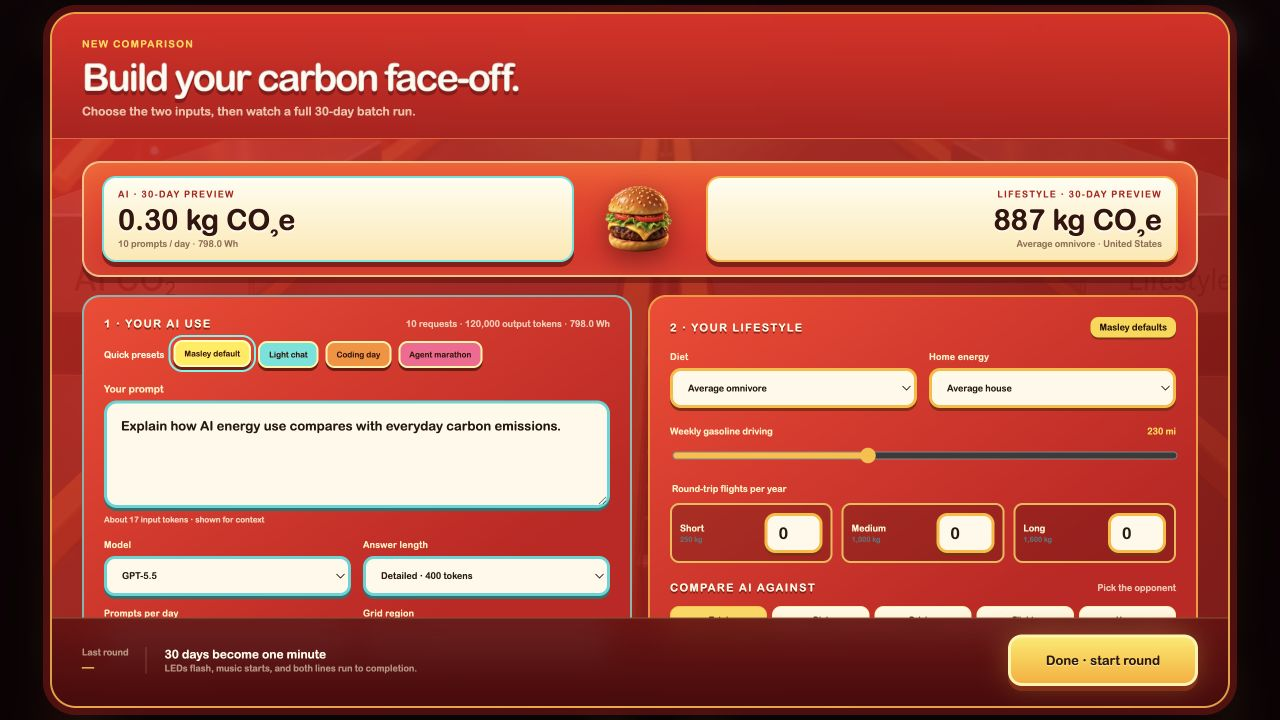
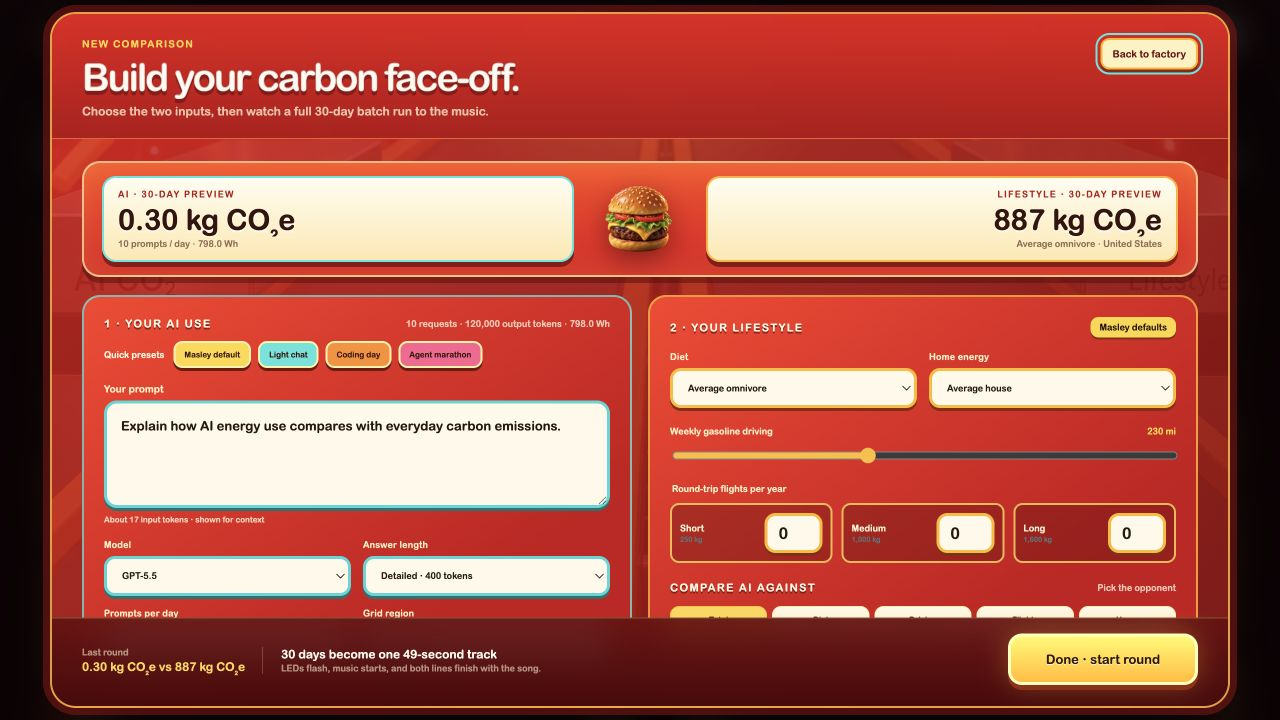
fix: sync round completion to soundtrack

diff --git a/src/main.ts b/src/main.ts
@@ -14,7 +14,12 @@ import {
   DEFAULT_GAME_SETUP,
   estimatePromptInputTokens,
 } from './game/setup';
-import { laneMotionTiming, projectBeltPose, type BeltSide } from './scene/conveyorPhysics';
+import {
+  laneMotionTiming,
+  projectBeltPose,
+  ROUND_PLAYBACK_DURATION_MS,
+  type BeltSide,
+} from './scene/conveyorPhysics';
 import { createStore } from './state/store';
 import type {
   AppState,
@@ -32,8 +37,8 @@ if (!app) throw new Error('Burger Works could not find its app root.');
 
 const ASSET_BASE = '/assets/burger-works';
 const BURGER_KG_CO2E = 3;
-const PRODUCTION_WINDOW_DURATION_MS = 60_000;
 const MAX_BURGERS_ON_LANE = 10;
+const MAX_VISIBLE_BURGERS_PER_LANE = 3_000;
 const SETUP_RETURN_DELAY_MS = 1_800;
 
 const initialProfile: LifestyleProfile = {
@@ -107,7 +112,7 @@ app.innerHTML = `
 
       <section class="output-strip" aria-label="Production totals and visual explanation">
         <article class="output-card output-card--left"><span>Window output</span><strong id="left-unit-count">—</strong><small id="left-unit-name">burger equivalent</small></article>
-        <div class="output-story"><strong id="stage-status" aria-live="polite">Production batch ready</strong><p id="motion-note">One comparison window enters from the back over one minute, then the run stops after the final burgers clear the foreground.</p></div>
+        <div class="output-story"><strong id="stage-status" aria-live="polite">Production batch ready</strong><p id="motion-note">One comparison window enters from the back and clears with the 48.8-second soundtrack.</p></div>
         <article class="output-card output-card--right"><span>Window output</span><strong id="right-unit-count">—</strong><small id="right-unit-name">burger equivalent</small></article>
       </section>
 
@@ -133,7 +138,7 @@ app.innerHTML = `
         <div>
           <p>New comparison</p>
           <h2>Build your carbon face-off.</h2>
-          <span>Choose the two inputs, then watch a full 30-day batch run.</span>
+          <span>Choose the two inputs, then watch a full 30-day batch run to the music.</span>
         </div>
         <button class="dialog-close" id="data-close" type="button">Back to factory</button>
       </div>
@@ -208,7 +213,7 @@ app.innerHTML = `
 
       <footer class="game-dialog__footer">
         <div class="last-round" id="last-round" hidden><span>Last round</span><strong id="last-round-summary">—</strong></div>
-        <div class="round-promise"><strong>30 days become one minute</strong><span>LEDs flash, music starts, and both lines run to completion.</span></div>
+        <div class="round-promise"><strong>30 days become one 49-second track</strong><span>LEDs flash, music starts, and both lines finish with the song.</span></div>
         <button class="primary-button game-start-button" type="submit">Done · start round</button>
       </footer>
       <p class="error-message game-error" id="error-message" role="alert" hidden></p>
@@ -226,7 +231,7 @@ app.innerHTML = `
       <div><dt>AI carbon</dt><dd>Estimated Wh × selected grid carbon intensity. Input tokens are displayed but not modeled by the source data.</dd></div>
       <div><dt>Lifestyle</dt><dd>Diet, gasoline driving, flights, and home energy are normalized to the same comparison window.</dd></div>
       <div><dt>Burger unit</dt><dd>1 burger ≈ ${BURGER_KG_CO2E} kg CO₂e. This is a communication equivalence, not a claim that every burger is identical.</dd></div>
-      <div><dt>Visual scale</dt><dd>One comparison window enters from the back over one minute. Exact output fills perspective-aware rows—up to three burgers across on desktop—before belt speed rises. A slow marker carries sub-one-burger output; the LED counters accumulate to the authoritative totals. The run ends after the final burgers clear the foreground.</dd></div>
+      <div><dt>Visual scale</dt><dd>One comparison window enters and clears during the 48.8-second soundtrack. Exact output fills perspective-aware rows—up to three burgers across on desktop—before belt speed rises. A slow marker carries sub-one-burger output; the LED counters accumulate to the authoritative totals.</dd></div>
       <div><dt>Excluded</dt><dd>Water, training, image generation, retries, and regional goods/services baselines.</dd></div>
     </dl>
     <a class="source-link" href="${MASLEY_SOURCE.url}" target="_blank" rel="noreferrer">Open Masley factor source</a>
@@ -535,9 +540,9 @@ function renderComparison(state: AppState): void {
     const markerNote = leftTiming.continuousMarker || rightTiming.continuousMarker
       ? ' A single slow marker carries the fractional output.'
       : '';
-    byId('motion-note').textContent = `${state.result.comparisonDays} days enter over 1 minute. The ${formatRatio(ratio)} gap uses ${busyTiming.columnCount}-wide rows; the LEDs count upward, then the run stops after the final row clears.${markerNote}`;
+    byId('motion-note').textContent = `${state.result.comparisonDays} days clear in one 49-second track. The ${formatRatio(ratio)} gap uses ${busyTiming.columnCount}-wide rows; the LEDs count upward, then the final row exits with the music.${markerNote}`;
   } else {
-    byId('motion-note').textContent = `${state.result.comparisonDays} days enter over 1 minute. The LEDs count upward, then the run stops after the last burgers clear.`;
+    byId('motion-note').textContent = `${state.result.comparisonDays} days clear in one 49-second track. The LEDs count upward until the last burgers exit.`;
   }
   byId('window-label').textContent = `${state.result.comparisonDays}-day carbon comparison`;
   byId('replay-window').textContent = `${state.result.comparisonDays}-day production · single batch`;
@@ -728,7 +733,7 @@ function renderConveyor(now: number, keepRunning = true): void {
   conveyorBurgers = active;
 
   const runProgress = clamp(
-    (now - replayStartedAt) / PRODUCTION_WINDOW_DURATION_MS,
+    (now - replayStartedAt) / ROUND_PLAYBACK_DURATION_MS,
     0,
     1,
   );
@@ -771,19 +776,21 @@ function beginBatch(): void {
 
   const schedule = (side: 'left' | 'right', data: SideData) => {
     const laneCapacity = laneCapacityForStage();
+    const burgerOutput = data.kgCo2e / BURGER_KG_CO2E;
+    const visibleBurgerCount = burgerOutput < 1
+      ? 1
+      : Math.min(MAX_VISIBLE_BURGERS_PER_LANE, Math.max(1, Math.ceil(burgerOutput)));
     const timing = laneMotionTiming(
-      data.kgCo2e / BURGER_KG_CO2E,
+      burgerOutput < 1 ? burgerOutput : visibleBurgerCount,
       laneCapacity,
       maxColumnsForStage(),
     );
     if (!timing) return;
     const duration = timing.travelDurationMs;
     const interval = timing.continuousMarker
-      ? PRODUCTION_WINDOW_DURATION_MS
+      ? ROUND_PLAYBACK_DURATION_MS
       : timing.intervalMs * timing.columnCount;
     const totalCapacity = timing.continuousMarker ? 1 : timing.totalCapacity;
-    const burgerOutput = data.kgCo2e / BURGER_KG_CO2E;
-    const visibleBurgerCount = timing.continuousMarker ? 1 : Math.max(1, Math.ceil(burgerOutput));
     conveyorLanes.push({
       side,
       accent: data.className,

diff --git a/src/scene/conveyorPhysics.test.ts b/src/scene/conveyorPhysics.test.ts
@@ -4,7 +4,14 @@ import {
   laneMotionTiming,
   projectBeltPose,
   projectWorldProgress,
+  ROUND_PLAYBACK_DURATION_MS,
 } from './conveyorPhysics';
+
+function scheduledCompletionMs(burgers: number, rowCapacity: number, maxColumns = 3): number {
+  const timing = laneMotionTiming(burgers, rowCapacity, maxColumns)!;
+  const rowCount = Math.ceil(Math.max(1, Math.ceil(burgers)) / timing.columnCount);
+  return (rowCount - 1) * timing.intervalMs * timing.columnCount + timing.travelDurationMs;
+}
 
 describe('conveyor physics', () => {
   it('projects the world-space endpoints exactly', () => {
@@ -123,19 +130,21 @@ describe('conveyor physics', () => {
     }
   });
 
-  it('fills density before increasing belt velocity for extreme rate gaps', () => {
+  it('fills density and fits extreme rate gaps to the soundtrack', () => {
     const ai = laneMotionTiming(1.24 / 3, 10, 3)!;
     const lifestyle = laneMotionTiming(887 / 3, 10, 3)!;
 
-    expect(ai.intervalMs / lifestyle.intervalMs).toBeGreaterThan(700);
+    expect(ai.intervalMs / lifestyle.intervalMs).toBeGreaterThan(300);
     expect(ai.columnCount).toBe(1);
     expect(ai.continuousMarker).toBe(true);
-    expect(ai.travelDurationMs).toBe(60_000);
+    expect(ai.travelDurationMs).toBe(ROUND_PLAYBACK_DURATION_MS);
     expect(lifestyle.columnCount).toBe(3);
     expect(lifestyle.totalCapacity).toBe(30);
-    expect(lifestyle.travelDurationMs).toBeGreaterThanOrEqual(5_900);
-    expect(lifestyle.travelDurationMs).toBeLessThanOrEqual(6_000);
+    expect(lifestyle.travelDurationMs).toBeGreaterThan(4_400);
+    expect(lifestyle.travelDurationMs).toBeLessThan(4_500);
     expect(ai.travelDurationMs / lifestyle.travelDurationMs).toBeGreaterThan(10);
+    expect(scheduledCompletionMs(1.24 / 3, 10, 3)).toBeCloseTo(ROUND_PLAYBACK_DURATION_MS, 5);
+    expect(scheduledCompletionMs(887 / 3, 10, 3)).toBeCloseTo(ROUND_PLAYBACK_DURATION_MS, 5);
   });
 
   it('uses the full belt surface progressively from one to three columns', () => {
@@ -147,7 +156,7 @@ describe('conveyor physics', () => {
     expect(columnsForBeltLoad(300, 10, 3)).toBe(3);
   });
 
-  it('holds base speed through physical capacity, then scales to 300 per month', () => {
+  it('uses more density before shortening travel and always ends with the song', () => {
     const one = laneMotionTiming(1, 10, 3)!;
     const eight = laneMotionTiming(8, 10, 3)!;
     const twentyOne = laneMotionTiming(21, 10, 3)!;
@@ -155,29 +164,37 @@ describe('conveyor physics', () => {
     const threeHundred = laneMotionTiming(300, 10, 3)!;
 
     expect(one.columnCount).toBe(1);
-    expect(one.travelDurationMs).toBe(60_000);
+    expect(one.travelDurationMs).toBe(ROUND_PLAYBACK_DURATION_MS);
     expect(eight.columnCount).toBe(2);
-    expect(eight.travelDurationMs).toBe(60_000);
+    expect(eight.travelDurationMs).toBeGreaterThan(27_000);
     expect(twentyOne.columnCount).toBe(3);
-    expect(twentyOne.travelDurationMs).toBe(60_000);
-    expect(thirty.travelDurationMs).toBeGreaterThanOrEqual(58_000);
-    expect(threeHundred.travelDurationMs).toBeGreaterThanOrEqual(5_800);
-    expect(threeHundred.travelDurationMs).toBeLessThanOrEqual(5_900);
-    expect(threeHundred.visualRatePerSecond).toBe(5);
+    expect(twentyOne.travelDurationMs).toBeGreaterThan(26_000);
+    expect(thirty.travelDurationMs).toBeGreaterThan(25_000);
+    expect(threeHundred.travelDurationMs).toBeGreaterThan(4_300);
+    expect(threeHundred.travelDurationMs).toBeLessThan(4_500);
+    expect(threeHundred.visualRatePerSecond).toBeCloseTo(
+      300 / (ROUND_PLAYBACK_DURATION_MS / 1_000),
+      5,
+    );
+    for (const burgers of [1, 8, 21, 30, 300]) {
+      expect(scheduledCompletionMs(burgers, 10, 3)).toBeCloseTo(ROUND_PLAYBACK_DURATION_MS, 5);
+    }
   });
 
-  it('uses multiple columns at the base speed before accelerating', () => {
+  it('uses multiple columns while retaining a track-length batch', () => {
     const medium = laneMotionTiming(10, 6, 3)!;
     expect(medium.columnCount).toBe(2);
-    expect(medium.travelDurationMs).toBe(60_000);
+    expect(medium.travelDurationMs).toBeGreaterThan(27_000);
+    expect(scheduledCompletionMs(10, 6, 3)).toBeCloseTo(ROUND_PLAYBACK_DURATION_MS, 5);
   });
 
   it('preserves compact headway and the below-threshold state', () => {
     const compact = laneMotionTiming(887 / 3, 3, 2)!;
     expect(compact.columnCount).toBe(2);
     expect(compact.totalCapacity).toBe(6);
-    expect(compact.travelDurationMs).toBeGreaterThanOrEqual(1_100);
-    expect(compact.travelDurationMs).toBeLessThanOrEqual(1_160);
+    expect(compact.travelDurationMs).toBeGreaterThan(900);
+    expect(compact.travelDurationMs).toBeLessThan(930);
+    expect(scheduledCompletionMs(887 / 3, 3, 2)).toBeCloseTo(ROUND_PLAYBACK_DURATION_MS, 5);
     expect(laneMotionTiming(0.004, 3)).toBeNull();
   });
 });

diff --git a/src/scene/conveyorPhysics.ts b/src/scene/conveyorPhysics.ts
@@ -20,8 +20,7 @@ const FAR_RIGHT_X = 55.8;
 const NEAR_RIGHT_X = 83.3;
 const BELT_PLANE_END = 0.8;
 const BELT_PERSPECTIVE = 2;
-const WINDOW_PLAYBACK_DURATION_MS = 60_000;
-const MIN_TRAVEL_DURATION_MS = 450;
+export const ROUND_PLAYBACK_DURATION_MS = 48_814;
 const HEADWAY_MARGIN = 0.2;
 const DEFAULT_SPRITE_WIDTH_PCT = 8.5;
 const FAR_COLUMN_GAP_PCT = 0.4;
@@ -137,10 +136,10 @@ export function columnsForBeltLoad(
 }
 
 /**
- * Maps one comparison window to one playback minute. Every lane begins at the
- * same one-minute traversal: additional output occupies more rows and columns
- * across the finite belt surface. Travel time shortens only after every usable
- * position is full, preserving the exact launch cadence at higher rates.
+ * Fits one complete comparison batch to the 48.8-second Burger Blitz track.
+ * A sparse lane keeps one burger in motion for the whole song. Busier lanes
+ * first occupy more rows and columns; their travel time then shortens just
+ * enough for the final row to clear on the same beat as every other lane.
  */
 export function laneMotionTiming(
   burgersInWindow: number,
@@ -155,14 +154,13 @@ export function laneMotionTiming(
     safeRowCapacity,
     safeMaxColumns,
   );
-  const visualRatePerSecond = burgersInWindow / (WINDOW_PLAYBACK_DURATION_MS / 1_000);
-  const intervalMs = Math.max(16, Math.round(1_000 / visualRatePerSecond));
-  const perColumnIntervalMs = intervalMs * columnCount;
-  const headwayDurationMs = perColumnIntervalMs * Math.max(1, safeRowCapacity - HEADWAY_MARGIN);
-  const travelDurationMs = Math.round(Math.max(
-    MIN_TRAVEL_DURATION_MS,
-    Math.min(WINDOW_PLAYBACK_DURATION_MS, headwayDurationMs),
-  ));
+  const visibleBurgerCount = Math.max(1, Math.ceil(burgersInWindow));
+  const rowCount = Math.ceil(visibleBurgerCount / columnCount);
+  const occupiedRows = Math.min(rowCount, Math.max(1, safeRowCapacity - HEADWAY_MARGIN));
+  const rowIntervalMs = ROUND_PLAYBACK_DURATION_MS / Math.max(1, rowCount - 1 + occupiedRows);
+  const travelDurationMs = ROUND_PLAYBACK_DURATION_MS - rowIntervalMs * Math.max(0, rowCount - 1);
+  const intervalMs = rowIntervalMs / columnCount;
+  const visualRatePerSecond = burgersInWindow / (ROUND_PLAYBACK_DURATION_MS / 1_000);
 
   return {
     columnCount,

diff --git a/design-qa.md b/design-qa.md
@@ -24,12 +24,12 @@
 - Pass — both burger paths follow the straight belt centerlines from the vanishing point to the foreground. Burger scale growth matches the source perspective and the foreground crops naturally at the stage edge.
 - Pass — the intentional product-state difference from the filled source is clear: identical burgers remain sparse on the AI line and dense on the lifestyle line, so throughput rather than decoration becomes the comparison.
 - Pass — every burger advances linearly in lane time, then one fractional-linear planar projection derives its angled screen x, contact y, apparent scale, and depth order. Distant screen motion is slower and the same belt velocity accelerates visibly toward the camera.
-- Pass — one selected comparison window enters over one playback minute. Both belts begin empty; exact output sets launch cadence, each belt fills aligned rows across its width before accelerating, and the run ends only after the last row clears the foreground. In the typical 718× state, the fractional AI marker takes 60 seconds to traverse while the denser three-wide lifestyle rows take about 5.96 seconds.
+- Pass — one selected comparison window fits the 48.8-second Burger Blitz soundtrack. Both belts begin empty; exact output sets launch cadence, each belt fills aligned rows across its width before accelerating, and both final rows clear with the end of the music. In the typical state, the fractional AI marker traverses for 48.8 seconds while the denser three-wide lifestyle rows traverse in about 4.44 seconds.
 - Pass — the calibrated projection now governs the photographed belt and its below-frame continuation without an exit-speed discontinuity. A tracked row increased from about 86 px/s in the distance to 518 px/s at the visible foreground; all samples remained at opacity 1 and continued well below the 535 px stage bottom before removal.
 - Pass — the sparse and packed paths were recalibrated to Burger Belt 2's asymmetric rail geometry. Linear fits through the photographed surface centers run from 48.4% to 21.6% on the left and 55.8% to 83.3% on the right. Only packed three-wide rows receive the separate 0.5% outward rail-clearance nudge at the back.
 - Pass — burger bottoms, rather than sprite centers, are anchored to the plane. The populated desktop line carries ten aligned rows of three; 24 burgers intersected the visible stage with measured row clearances widening from 11.9 px in the distance to 35.8 px in the foreground and zero intersections. Compact rows run two-wide with zero intersections.
 - Pass — same-row spacing is derived from each sprite's rendered width plus a rail-safe gap that opens with the photographed belt. Desktop horizontal gaps grow from about 5 px at the distant row to 11–12 px at the foreground; compact gaps widen proportionally. Packed rows receive a small inward-only rear offset so neither outer burger rides the converging rail. The distant scale remains 0.14 so the first burgers are readable without changing the established foreground size.
-- Pass — live compact CO₂ totals and production pace are centered inside the photographed black machinery displays, outside both motion paths. At the 1203.2 × 515.7 px desktop stage the overlays measure 113.5 × 44.7 px and 112.3 × 44.7 px; at the 366 × 156.9 px compact stage they remain visible at about 34 × 13.5 px. Exact burger-equivalent totals and the one-minute density-first explanation remain below the stage.
+- Pass — live compact CO₂ totals and production pace are centered inside the photographed black machinery displays, outside both motion paths. At the 1203.2 × 515.7 px desktop stage the overlays measure 113.5 × 44.7 px and 112.3 × 44.7 px; at the 366 × 156.9 px compact stage they remain visible at about 34 × 13.5 px. Exact burger-equivalent totals and the soundtrack-length density-first explanation remain below the stage.
 - Pass — the 1280 × 900 page maintains the existing Burger Works hierarchy: exact carbon values first, moving production second, compact controls third.
 
 ## Required fidelity surfaces
@@ -38,7 +38,7 @@
 - Spacing and layout rhythm: passed. The 2128:912 stage ratio matches both sources; labels clear the lanes; the new output strip aligns to the stage and the replay controls remain visually secondary.
 - Colors and visual tokens: passed. The source's warm yellow/red industrial palette remains visible while the existing cyan/amber semantic accents identify AI and lifestyle without recoloring the supplied image.
 - Image quality and asset fidelity: passed. The source background is used at its native composition; the existing transparent burger asset is sharp, halo-free, and perspective-scaled. No placeholder, CSS-drawn, SVG-drawn, or emoji assets are present.
-- Copy and content: passed. The typical state states “30 days = 1 minute,” preserves the exact 718× output cadence, explains that the busier lane fills up to three-wide before belt speed rises, and identifies the persistent slow marker. Numeric totals remain authoritative. Near-zero totals use “Below visual threshold.”
+- Copy and content: passed. The typical state states “30 days become one 49-second track,” preserves the exact output ratio, explains that the busier lane fills up to three-wide before belt speed rises, and identifies the persistent slow marker. Numeric totals remain authoritative. Near-zero totals use “Below visual threshold.”
 - Icons and controls: passed. Existing supplied brand image and established text controls are retained; disabled Energy and Water modes remain clearly marked “soon.”
 - Accessibility: passed for this iteration. Semantic buttons/dialogs/labels remain keyboard reachable, alt text describes the conveyor image, reduced-motion rules remain present, and text contrast remains legible over dark panels.
 
@@ -53,7 +53,7 @@
 - Synthetic scenario change: passed; light and typical states update values and restart the lines.
 - Lifestyle component selection: passed; diet changes the right value and pace, then total restores the full comparison.
 - Profile input change/reset: passed; driving changes the right pace immediately and restart logic uses the new rate.
-- Replay batch: passed; the initial stage waits empty for a user start, both LED panels flash during a 900 ms systems check, burgers enter only from the back, the LED totals rise from zero during the one-minute input window, and the final state holds after the last burgers fall beyond the foreground.
+- Replay batch: passed; the initial stage waits empty for a user start, both LED panels flash during a 900 ms systems check, burgers enter only from the back, the LED totals rise from zero during the 48.8-second run, and the final state holds after the last burgers fall beyond the foreground.
 - Soundtrack: passed structural and media validation. The 48.8-second Burger Blitz MP3 is queued by default and silently primed on the Start batch gesture so browser media policy is satisfied; after the 900 ms LED flash it resets to zero and becomes audible on the same frame as belt motion. Replay batch repeats that sequence, and the track does not loop. The Music control arms or disarms the next round without starting it independently. At 390 px, Music and Replay remain visible without overlap or horizontal overflow.
 - Swap: passed; populated and sparse lane cadence, speed, labels, and values exchange sides while each lane retains its independently fitted projective path.
 - Chrome parity: passed after replacing the fixed 88 px/62 px sprite widths with an 11% stage-relative width. At equal belt depth, burger-to-stage proportions now remain constant across Chrome window sizes while the intentional desktop/compact column breakpoint remains discrete; the larger calibration keeps both browser views legible without returning to fixed pixel sizing.
@@ -64,10 +64,10 @@
 - First normalized pass: no actionable P0/P1/P2 mismatch. The source and implementation were compared together at 1203 × 516 px. The unequal burger density and UI labels are intentional product behavior, not fidelity drift.
 - Motion correction pass — P1 resolved. The supplied 1660 px reference showed rate-dependent belt timing and foreground burger overlap. The implementation now uses one fixed travel duration, a perspective-compensated screen path, a lower sparse-rate floor, and responsive capacity spacing. Two timed post-fix captures at 1660 × 1094 show the burgers progressing without bunching; the 390 × 844 capture confirms the compact cap.
 - Shared-clock physics pass — P1 resolved. Independent Web Animations could not guarantee a single physical belt or frame-rate-independent headway. They were replaced by one requestAnimationFrame simulation with absolute birth times, fixed world speed, projective camera mapping, perceptual velocity compensation, bottom-contact anchoring, responsive lane capacity, and deterministic catch-up. Typical, big/big, compact, and below-threshold browser states all passed with no console warnings or errors.
-- Rate-and-velocity pass — P1 resolved. Density-only compression reduced the typical 718× comparison to roughly four visible positions and flattened perspective velocity. The current model maps the full window to one minute, preserves exact average launch cadence, fills synchronized two- or three-wide rows before accelerating the saturated lane, keeps one slow marker visible, follows the user-marked perspective paths, and retains full opacity through off-screen exit.
+- Rate-and-velocity pass — P1 resolved. Density-only compression reduced the typical comparison to roughly four visible positions and flattened perspective velocity. The current model maps the full window to the soundtrack, fills synchronized two- or three-wide rows before accelerating the saturated lane, keeps one slow marker visible, follows the user-marked perspective paths, retains full opacity through off-screen exit, and solves each lane's final row for the same 48.8-second completion.
 - Perspective-headway pass — P1 resolved. Sprite scale previously used much stronger perspective than forward position, so rear burgers appeared to consume the gap even though their centers never passed. Position, column spread, and the below-frame exit now share one continuous belt-plane projection; sprite growth is gently eased from that same depth coordinate to preserve its visible silhouette headway. Every tracked following-distance sequence increased frame by frame; desktop and compact stress sampling retained zero intersections.
 - Dense-balance pass — P1 resolved. The six-row desktop cap left avoidable foreground space on the high-output line. The cap is now ten synchronized rows of three: exact cadence remains 4.93 burgers per second while belt travel slows to about 5.96 seconds before any further rate increase is represented as velocity.
-- Full-range layout pass — P1 resolved. The timing model now treats the belt as a finite 10 × 3 surface rather than selecting columns only when a single file overflows. One burger per month takes the full minute to traverse; rising output progressively occupies one, two, then three columns while retaining that base speed. Only loads beyond the available 30 positions accelerate, reaching about a 5.9-second traversal at the 300-burger-per-month design ceiling.
+- Full-range layout pass — P1 resolved. The timing model treats the belt as a finite 10 × 3 surface rather than selecting columns only when a single file overflows. One burger per month takes the full soundtrack to traverse; rising output progressively occupies one, two, then three columns and then shortens travel just enough for the final row to clear on time. At 300 burgers per month, the packed lane traverses in about 4.4 seconds while its last row still exits at 48.8 seconds.
 - Size-aware row-fan pass — P1 resolved. Fixed column coordinates allowed sprite growth to consume horizontal gaps near the camera, while the first distant burgers were too small. Column centers now use the measured CSS sprite width at runtime plus a visual gap that expands from 0.5% to 1% of stage width. The distant three-wide footprint narrowed from about 70 px to 56 px and cleared the converging center rail; timed desktop and compact sampling retained widening gaps, one persistent slow marker, and zero intersections.
 - Burger Belt 2 integration pass — P1 resolved. The extended source changed both rail angles and machinery-panel positions. Each belt now has its own least-squares centerline rather than a mirrored path: 48.4% → 21.6% on the left and 55.8% → 83.3% on the right; the 30 populated sprites retained zero intersections. Live readouts were measured into the photographed black windows, with the right value centered by the panel's actual 6.7% inset rather than by mirroring the left housing, then lowered 0.85% to sit optically centered in both recesses.
 - Focused-region comparison used the full conveyor stage at 1660 px wide because motion path, apparent speed, size growth, and center-to-center spacing are all readable there. The full-page capture separately verifies surrounding typography and layout.
@@ -85,7 +85,8 @@
 - Pass — the setup no longer uses the former dark data-settings sheet. It adopts the reference's saturated red environment, rounded cartoon display type, cream controls, thick cyan/yellow outlines, hard toy-like shadows, multicolor preset chips, bright score panels, and real burger artwork.
 - Pass — the source's dominant footprint-number hierarchy is adapted to the product's two-number premise: both 30-day CO₂ estimates update live above the form while the center burger keeps the face-off legible.
 - Pass — all core controls work: prompt, model, answer length, daily volume, grid region, lifestyle defaults, driving, flights, opponent choice, and four AI presets. Done computes with the Masley curves and starts the established LED-flash/music/belt sequence.
-- Pass — the round begins from empty belts and returns to the setup dialog after the final sprites clear, with the previous choices retained and the last-round comparison exposed.
+- Pass — the round begins from empty belts, completes with the 48.8135-second MP3, and returns to the setup dialog after the final sprites clear, with the previous choices retained and the last-round comparison exposed.
+- Pass — a full browser-timed run returned to setup after 52.0 seconds from the Done gesture, matching the intended 0.9-second LED pre-roll + 48.814-second song/batch + 1.8-second final-score hold within frame/timer tolerance.
 - Pass — the initial modal cannot be dismissed without starting a round; subsequent setup visits include Back to factory. Reopening always resets modal scroll to the scoreboard.
 - Pass — at 390 × 844 the form becomes one column, the score panels remain visible with wrapped values, the sticky start action remains reachable, and no horizontal clipping appears.
 - Pass — the reference and implementation use actual raster assets rather than fabricated SVG, emoji, placeholder, or CSS-drawn illustration.

diff --git a/README.md b/README.md
@@ -1,6 +1,6 @@
 # Burger Works
 
-Burger Works is a one-round carbon comparison game. A cartoon setup board collects a prompt, model, answer length, daily prompt rate, and Masley lifestyle defaults; then two burger-production lines turn the computed 30-day footprints into a synchronized one-minute factory run.
+Burger Works is a one-round carbon comparison game. A cartoon setup board collects a prompt, model, answer length, daily prompt rate, and Masley lifestyle defaults; then two burger-production lines turn the computed 30-day footprints into a synchronized 48.8-second factory run.
 
 ## Run locally
 
@@ -17,7 +17,7 @@ Open `http://127.0.0.1:5174/`.
 - Prompt, model, answer-length, prompts-per-day, grid, diet, home, driving, flight, and comparison-opponent inputs
 - Masley / EcoLogits model-curve interpolation with central and 95% range estimates
 - Diet, driving, flights, and home-energy lifestyle comparisons over a fixed 30-day game window
-- Straight, perspective-matched twin conveyors with identical burgers and live accumulating CO₂ displays embedded in the photographed machinery; each run starts empty, admits one comparison window from the back over one minute, and stops after the final burgers fall beyond the foreground
+- Straight, perspective-matched twin conveyors with identical burgers and live accumulating CO₂ displays embedded in the photographed machinery; each run starts empty, admits one comparison window from the back, and clears the final burgers as the 48.8-second soundtrack ends
 - Responsive physical headway: burger geometry scales directly with the photographed stage, with up to ten three-wide rows on desktop and three two-wide rows on compact screens, size-aware column spacing, and full opacity until sprites run beyond the bottom edge
 - A persistent slow-lane marker keeps sub-one-burger output visible without changing the authoritative numeric total
 - Empty-to-complete batch staging plus exact burger-equivalent output for the selected window
